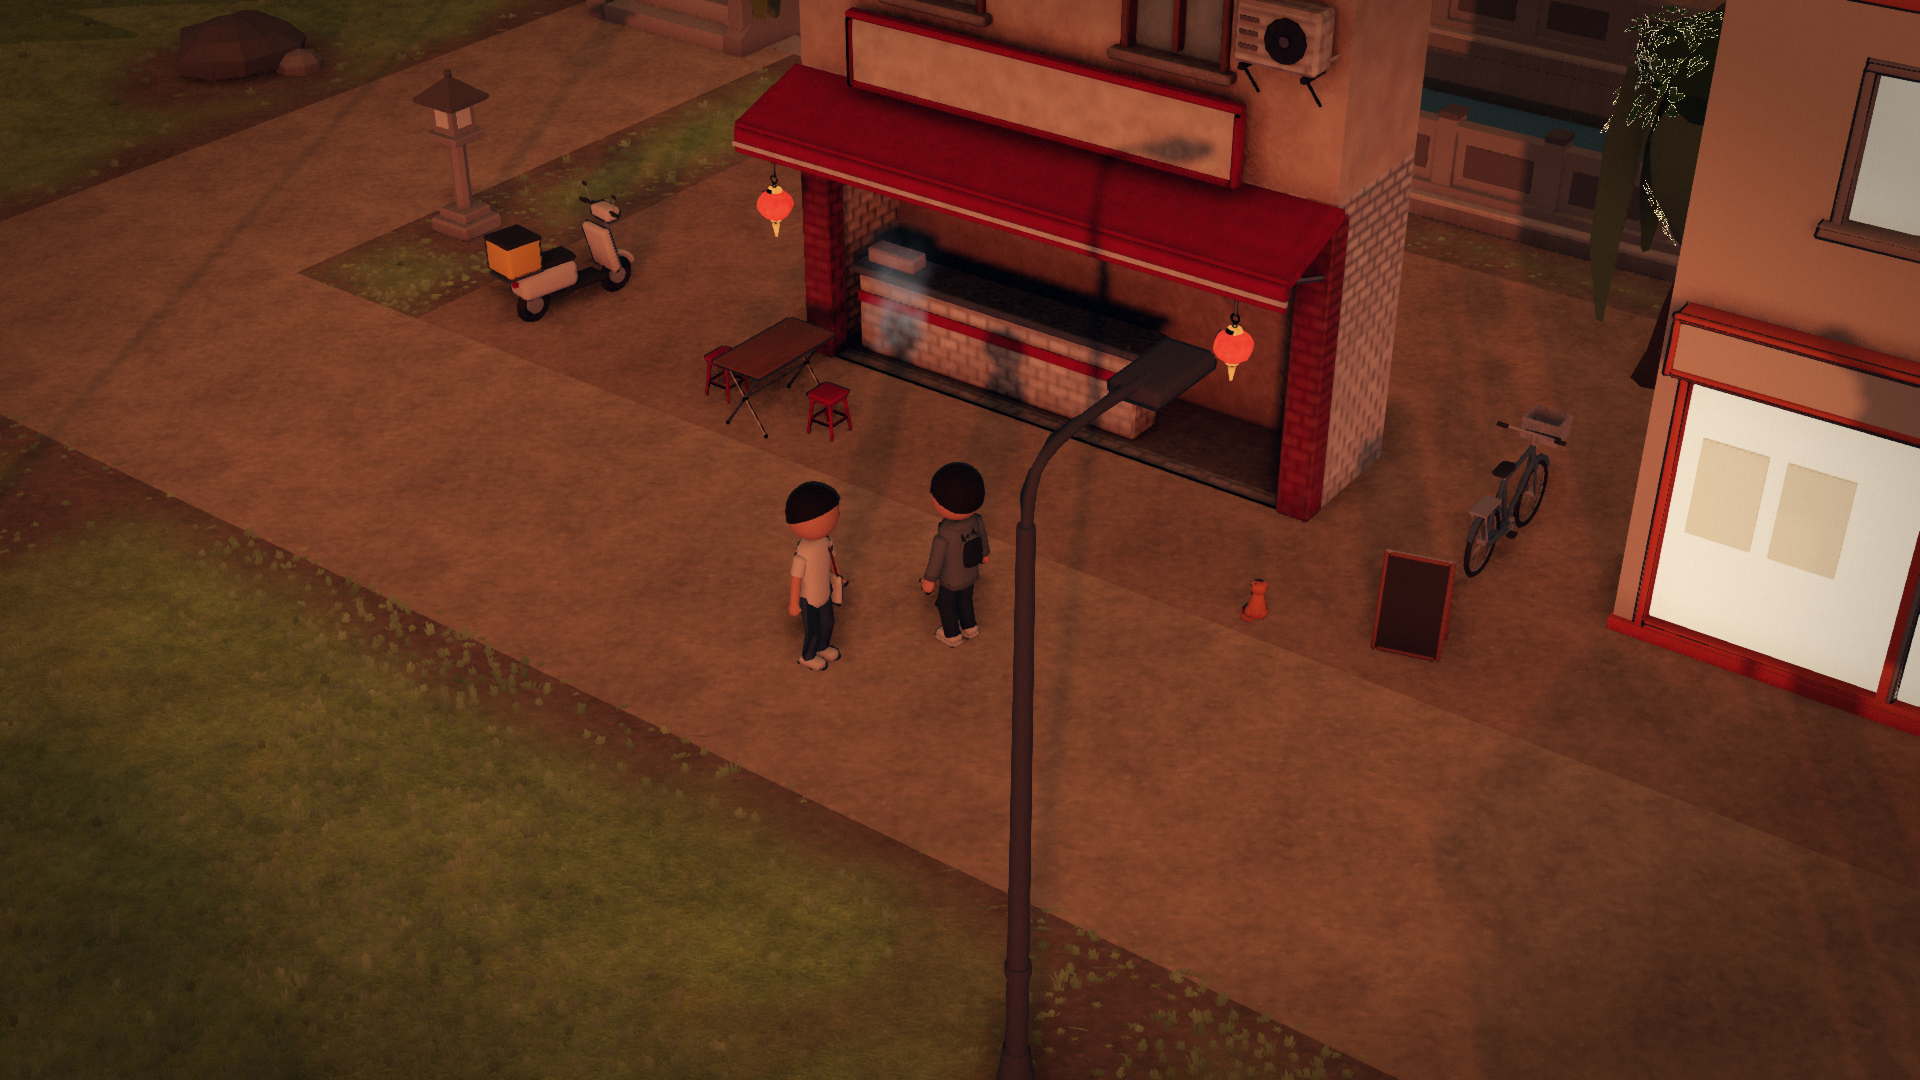
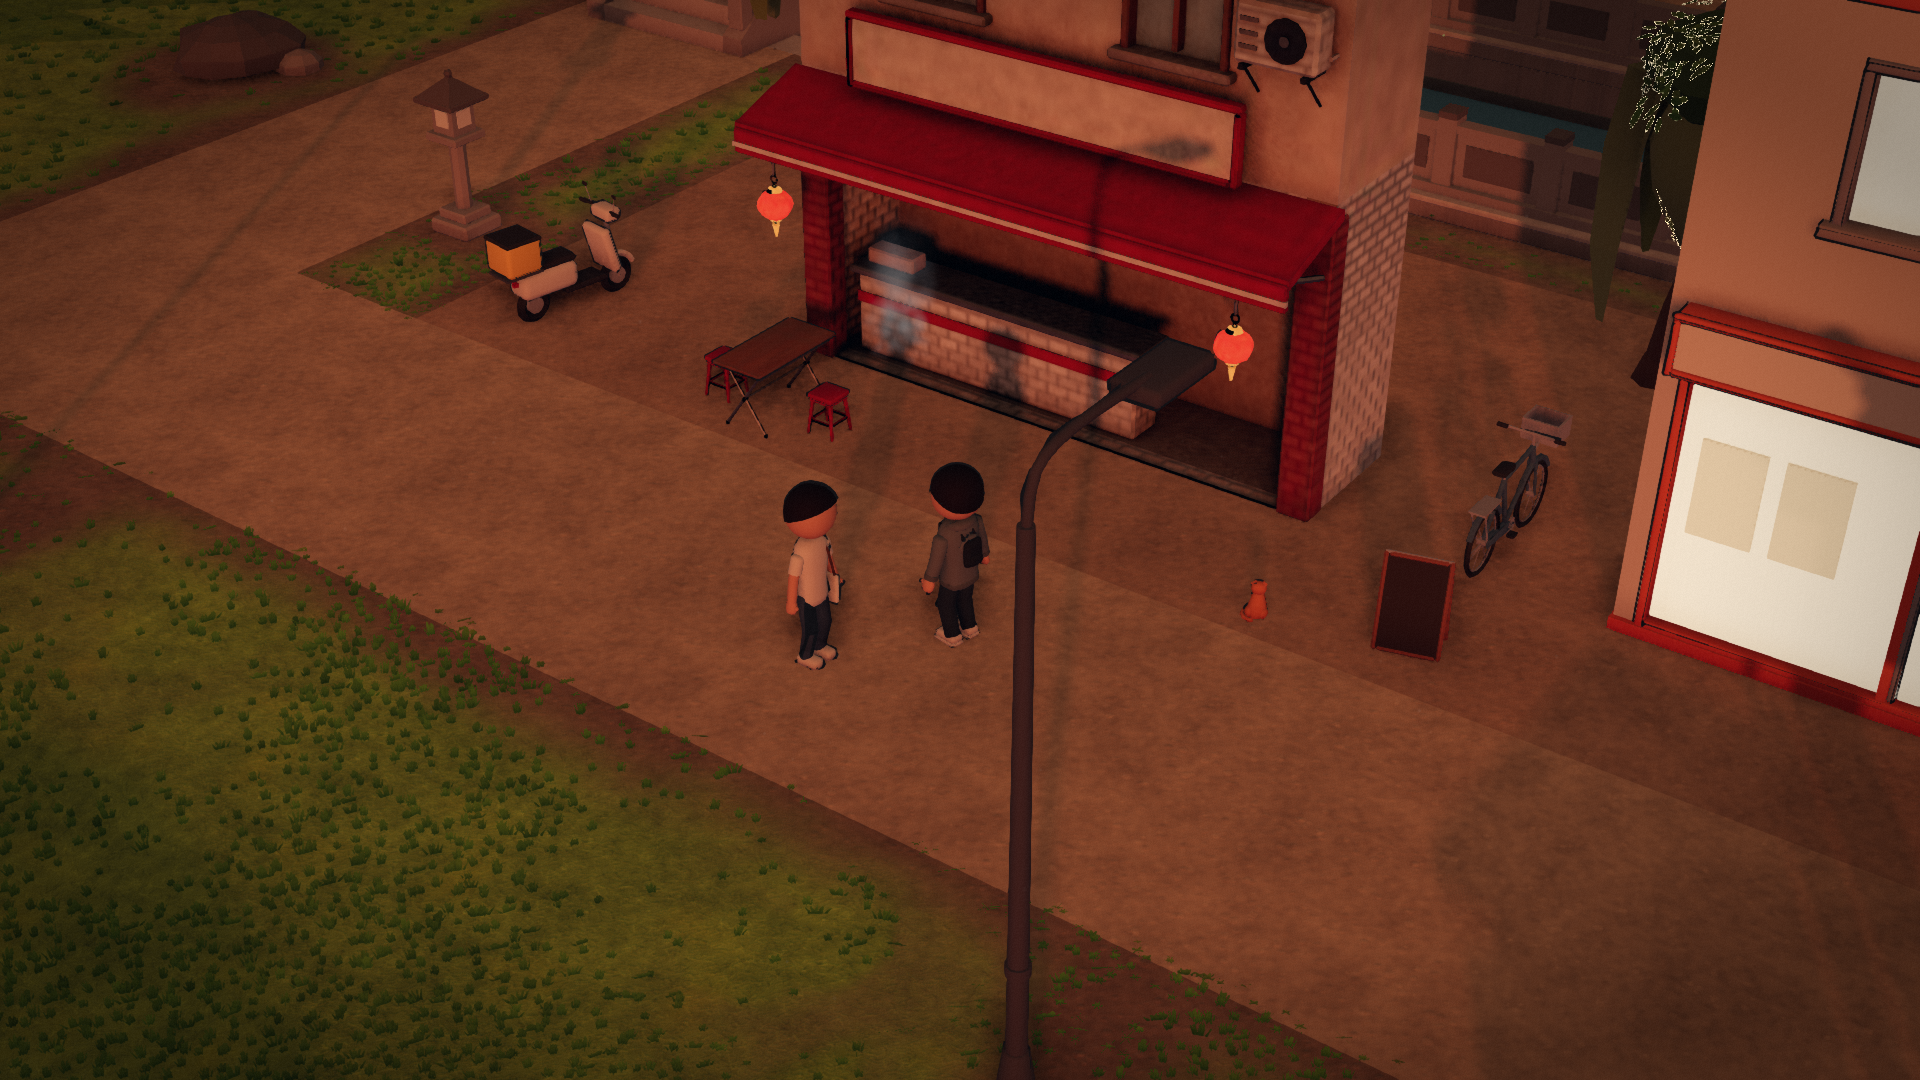
world3d: grass and canopy tuning — a healthy lawn green (saturated root to green-yellow tip)
The 60 % cap and the ground-matched root washed the lawn out. Blade colour (GRASS_LOOK, multipliers
on the lawn's linear colour): root 0.3/0.62/0.3 (a deep green, greener and darker than the ground),
mid 0.5/0.85/0.35, tip 0.75/1.1/0.4 (bright green-yellow, no brighter than the lawn), saturation
cap 0.9 (linear; 87-90 % on grass_light). The ground shader's lawn a touch lusher under the tufts
(GRASS_LOOK.lawn: sat x1.18, tint 0.93/1.02/0.86; the dirt untouched). Tuft cards, clumps, bare
patches, sizes and wind unchanged; the evening grade untouched.

Tests: envlook.test.ts colour bounds (root greener and darker than the lawn, 80-90 % saturated,
tip toward yellow and brighter than the root, lawn lift bounded). Shots re-taken (SET=env,
SET=tiers, 1920x1080, 0 console errors).

diff --git a/packages/world3d/src/envlook.ts b/packages/world3d/src/envlook.ts
@@ -52,16 +52,20 @@ export const GRASS = {
  * clumps (macro noise R at `clump.scale` m: a blade stays where its own random is under the
  * density, `floor` .. 1, so thin patches keep `floor` of their blades; the clumps' blades a little
  * taller), bare dirt patches (envBare: the ground shader's dirt patches, the blades gone there) and
- * the blade's colour: `root` x the lawn's own colour at the ground (the blades grow out of it), the
- * lawn's colour up the blade, `tip` (yellow-green, no brighter) at the top, every blade held to
- * `maxSat` saturation. `lean`: the tuft's random lean (rad, at most).
+ * the blade's colour, multipliers on the lawn's own (linear) colour: `root` a deep green at the
+ * ground (greener and darker than the lawn round it), `mid` up the blade, `tip` a bright
+ * green-yellow, every blade held to `maxSat` saturation (linear: a healthy, well-watered lawn, not
+ * neon). `lawn`: the ground shader's lawn under the tufts, a touch more saturated (`sat`) and green
+ * (`tint`) so the two agree (the dirt untouched). `lean`: the tuft's random lean (rad, at most).
  */
 export const GRASS_LOOK = {
   clump: { scale: 7.3, offset: 0.61, lo: 0.34, hi: 0.62, floor: 0.12 },
   bare: { patch: [0.6, 0.72], detail: [0.52, 0.62], gone: [0.12, 0.4] },
-  root: [0.86, 0.87, 0.84],
-  tip: [1.08, 1.0, 0.7],
-  maxSat: 0.6,
+  root: [0.3, 0.62, 0.3],
+  mid: [0.5, 0.85, 0.35],
+  tip: [0.75, 1.1, 0.4],
+  maxSat: 0.9,
+  lawn: { sat: 1.18, tint: [0.93, 1.02, 0.86] },
   lean: 0.12,
 };
 /** lite's far band fade (m): as full's (18-24 m thinned the lawn visibly at the phone's top edge, for little: the far blades are cheap) */
@@ -829,6 +833,8 @@ ${BARE_GLSL}
   float envPatch = envBare(envM.r, envM2.g);
   envMix = clamp(max(envWear, envPatch), 0.0, 1.0);
   vec3 envGrass = diffuseColor.rgb * mix(vec3(1.0), envG, envNear) * mix(vec3(0.84, 0.88, 0.86), vec3(1.14, 1.1, 0.88), envM.g);
+  // the lawn a touch lusher (GRASS_LOOK.lawn): the tufts' green agrees with it
+  envGrass = max(mix(vec3(dot(envGrass, vec3(0.2126, 0.7152, 0.0722))), envGrass, ${f3(GRASS_LOOK.lawn.sat)}), 0.0) * ${v3(GRASS_LOOK.lawn.tint)};
   vec3 envDirt = envDirtColor * mix(vec3(1.0), envD, envNear) * mix(0.9, 1.1, envM2.b);
   diffuseColor.rgb = mix(envGrass, envDirt, envMix);
 #else
@@ -994,9 +1000,9 @@ ${spec.quads === 1 ? `
   vec2 envTs = vTuftUv * ${TUFT.n.toFixed(1)};
   float envLod = max(0.0, 0.5 * log2(max(dot(dFdx(envTs), dFdx(envTs)), dot(dFdy(envTs), dFdy(envTs)))));
   diffuseColor.a = envT.a * (1.0 + envLod * 0.35);
-  // the ground's colour at the root, the lawn's up the blade, yellow-green at the tip (each tuft its own share), no more than maxSat saturated
-  vec3 envBladeC = vBlade * mix(${v3(GRASS_LOOK.root)}, vec3(1.0), smoothstep(0.0, 0.5, vBladeY.x));
-  envBladeC = mix(envBladeC, vBlade * ${v3(GRASS_LOOK.tip)}, smoothstep(0.5, 1.0, vBladeY.x) * vBladeY.y);
+  // a deep green at the root, the lawn's green up the blade, a bright green-yellow at the tip (each tuft its own share), no more than maxSat saturated
+  vec3 envBladeC = vBlade * mix(${v3(GRASS_LOOK.root)}, ${v3(GRASS_LOOK.mid)}, smoothstep(0.0, 0.5, vBladeY.x));
+  envBladeC = mix(envBladeC, vBlade * ${v3(GRASS_LOOK.tip)}, smoothstep(0.5, 1.0, vBladeY.x) * (0.4 + 0.6 * vBladeY.y));
   envBladeC *= envT.rgb / 0.9;
   {
     float mx = max(envBladeC.r, max(envBladeC.g, envBladeC.b));

diff --git a/packages/world3d/test/envlook.test.ts b/packages/world3d/test/envlook.test.ts
@@ -16,16 +16,29 @@ describe("the lawn (envlook.ts GRASS, GRASS_LOOK)", () => {
     expect(GRASS_LOOK.lean).toBeLessThanOrEqual(0.2); // a few degrees
   });
 
-  it("the colour: the root near the ground's own, a yellow-green tip no brighter than the lawn (luminance <= 1), at most 60 % saturation", () => {
-    for (const c of GRASS_LOOK.root) {
-      expect(c).toBeGreaterThan(0.8);
-      expect(c).toBeLessThanOrEqual(1);
+  it("the colour: a deep green root (greener and darker than the lawn), a bright green-yellow tip, 80-90 % saturated on the town's lawn, never neon", () => {
+    const lawn = [0.371, 0.552, 0.15]; // terrain_town grass_light (linear)
+    const on = (m: number[]) => m.map((c, i) => c * lawn[i]);
+    const sat = (c: number[]) => (Math.max(...c) - Math.min(...c)) / Math.max(...c);
+    const lum = (c: number[]) => 0.2126 * c[0] + 0.7152 * c[1] + 0.0722 * c[2];
+    const [root, mid, tip] = [on(GRASS_LOOK.root), on(GRASS_LOOK.mid), on(GRASS_LOOK.tip)];
+    expect(sat(root)).toBeGreaterThan(sat(lawn)); // greener than the ground
+    expect(lum(root)).toBeLessThan(lum(lawn)); // and darker
+    expect(root[0] / root[1]).toBeLessThan(lawn[0] / lawn[1]);
+    for (const c of [root, mid, tip]) {
+      expect(sat(c)).toBeGreaterThanOrEqual(0.8);
+      expect(Math.min(sat(c), GRASS_LOOK.maxSat)).toBeLessThanOrEqual(0.9);
+      expect(c[1]).toBe(Math.max(...c)); // green, never yellow or blue
     }
-    const [r, g, b] = GRASS_LOOK.tip;
-    expect(r).toBeGreaterThan(g); // toward yellow
-    expect(b).toBeLessThan(g);
-    expect(0.2126 * r + 0.7152 * g + 0.0722 * b).toBeLessThanOrEqual(1);
-    expect(GRASS_LOOK.maxSat).toBeLessThanOrEqual(0.6);
+    expect(tip[0] / tip[1]).toBeGreaterThan(root[0] / root[1]); // the tip toward yellow
+    expect(lum(tip)).toBeGreaterThan(lum(root) * 1.4); // brighter than the root
+    expect(lum(tip)).toBeLessThanOrEqual(lum(lawn) * 1.1); // no glow above the lawn
+    expect(GRASS_LOOK.maxSat).toBeGreaterThanOrEqual(0.8);
+    expect(GRASS_LOOK.maxSat).toBeLessThanOrEqual(0.9);
+    // the ground's lawn lifted a touch, no more
+    expect(GRASS_LOOK.lawn.sat).toBeGreaterThan(1);
+    expect(GRASS_LOOK.lawn.sat).toBeLessThanOrEqual(1.3);
+    expect(GRASS_LOOK.lawn.tint[1]).toBe(Math.max(...GRASS_LOOK.lawn.tint));
     expect(GRASS_LOOK.clump.floor).toBeGreaterThan(0);
     expect(GRASS_LOOK.clump.floor).toBeLessThan(0.3);
   });

diff --git a/packages/world3d/README.md b/packages/world3d/README.md
@@ -946,9 +946,10 @@ Layers (`look.ts ENV_LAYERS`):
   1 quad turned to the camera, both from the same texture; the tallest 0.16 m, each leaning up to
   0.12 rad its own way. In clumps (`GRASS_LOOK.clump`: macro noise at 7.3 m; thin patches keep 12 %
   of their tufts), gone on the bare dirt patches the ground shader draws (`envBare`, the same
-  noise). The colour starts at the ground's own lawn colour at the root (the blades grow out of
-  it), a yellow-green tip no brighter than the lawn, every blade held under 60 % saturation
-  (`GRASS_LOOK.root` / `tip` / `maxSat`). `grassDensityAt` mirrors the shader's density on the CPU
+  noise). The colour: a deep green root (greener and darker than the lawn round it), the lawn's
+  green up the blade, a bright green-yellow tip, 80-90 % saturated (linear) on the town's lawn,
+  capped at 90 % (`GRASS_LOOK.root` / `mid` / `tip` / `maxSat`); the ground shader's lawn under
+  the tufts a touch lusher (`GRASS_LOOK.lawn`, the dirt untouched). `grassDensityAt` mirrors the shader's density on the CPU
   (the tests: 0 on the street and every footprint). Each tile is cut into chunks (near 4x4, far 6x6, 52 meshes), each
   drawn only when it is in the camera's frustum and within its band's reach of the player
   (`grassChunkVisible`, `wrapIntervals`: where a chunk lands as the tile wraps round the player);
